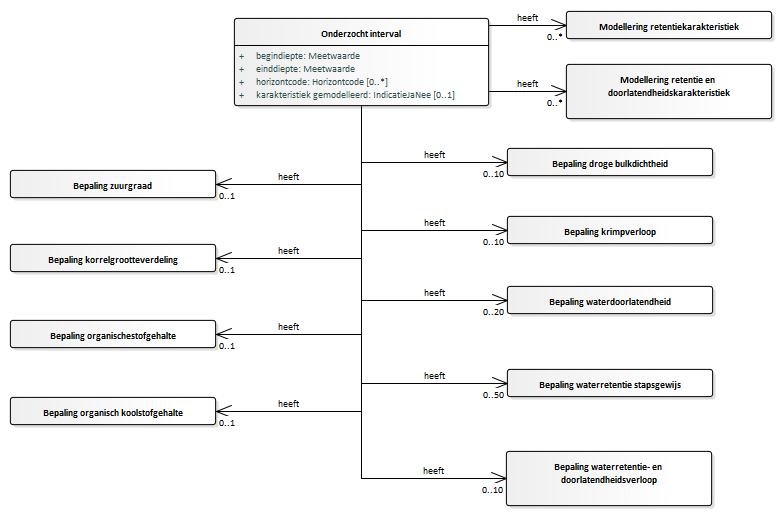
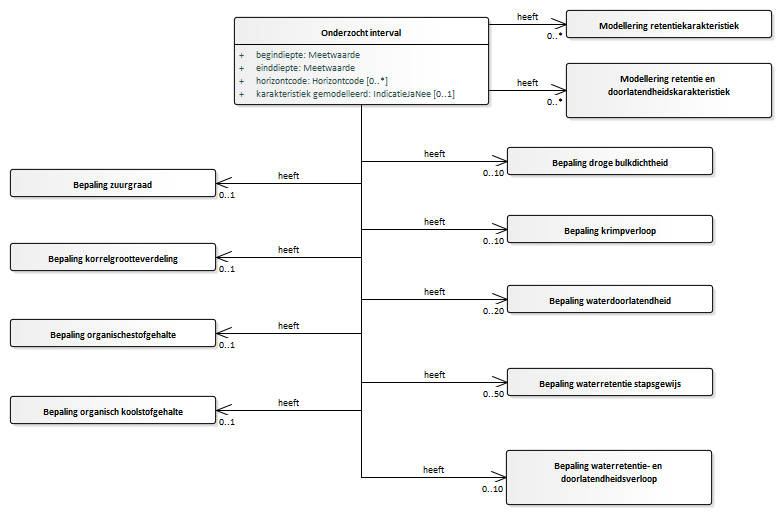
Conceptualmodel-BodemkundigwandonderzoekSFR-1.922versie2maart2020-3-20200302-20200305-161754

diff --git a/data/SFR-cat.msword.html b/data/SFR-cat.msword.html
@@ -13,7 +13,7 @@
    <body>
       <p>Conceptual model/Bodemkundig wandonderzoek (SFR)/20200302</p>
       <p>Imvertor: 1.59.2</p>
-      <p>Model release: Conceptualmodel-BodemkundigwandonderzoekSFR-1.922versie2maart2020-3-20200302-20200305-152339</p>
+      <p>Model release: Conceptualmodel-BodemkundigwandonderzoekSFR-1.922versie2maart2020-3-20200302-20200305-161754</p>
       <hr>
       <section>
          <h1>Artikel 1 Definitie van registratieobject, entiteiten en attributen</h1>
@@ -11542,18 +11542,18 @@
                </section><a class="anchor" id="graph_EAID_A420FBE3_89CE_466c_875A_7F10AD21E90D"></a><a class="anchor" id="global_class_DomeinmodelBROSFR_Onderzochtinterval"></a><section id="global_class_DomeinmodelBROSFR_Onderzochtinterval">
                   <h3>   Onderzocht interval</h3>
                   <div class="imageinfo "><img src="Images/EAID_E276822A_96FA_417c_93DC_9AB3E8599891.png" usemap="#imagemap-EAID_E276822A_96FA_417c_93DC_9AB3E8599891" alt="Diagram "><map name="imagemap-EAID_E276822A_96FA_417c_93DC_9AB3E8599891">
-                        <area shape="rect" alt="Bepaling organisch koolstofgehalte" coords="10,397,216,425" href="#graph_EAID_34645118_BDCB_4863_8A47_BF5AE086C2D3">
-                        <area shape="rect" alt="Modellering retentie en doorlatendheidskarakteristiek" coords="566,64,772,119" href="#graph_EAID_ED8DE5D2_7585_496c_8B3C_F887234EE5BA">
-                        <area shape="rect" alt="Modellering retentiekarakteristiek" coords="566,11,772,39" href="#graph_EAID_DAAF285C_6B5F_4ccc_9633_42F19B112D3B">
-                        <area shape="rect" alt="Bepaling waterretentie- en doorlatendheidsverloop" coords="506,451,712,506" href="#graph_EAID_49AD3898_158D_47c7_B1AF_C839D2CB7B68">
-                        <area shape="rect" alt="Bepaling waterretentie stapsgewijs" coords="507,369,713,397" href="#graph_EAID_BAE772BD_B71F_4124_98FC_F7EF5E68BCBF">
-                        <area shape="rect" alt="Bepaling waterdoorlatendheid" coords="507,286,713,314" href="#graph_EAID_BCDCEB7C_2766_41e9_9958_35F5860BE49A">
-                        <area shape="rect" alt="Bepaling krimpverloop" coords="507,216,713,244" href="#graph_EAID_FE20ED5D_F749_4cbf_A3F0_622FD6CE25DE">
-                        <area shape="rect" alt="Bepaling droge bulkdichtheid" coords="507,148,713,176" href="#graph_EAID_A1E3A70D_62A1_406f_8D49_F395104462BB">
-                        <area shape="rect" alt="Bepaling organischestofgehalte" coords="10,320,216,348" href="#graph_EAID_3C291EC5_84C5_4d25_8E28_F9D97115F1F7">
-                        <area shape="rect" alt="Bepaling korrelgrootteverdeling" coords="10,244,216,272" href="#graph_EAID_8A3656CD_0F50_48f6_9CF0_0890F48CA39A">
-                        <area shape="rect" alt="Bepaling zuurgraad" coords="10,170,216,198" href="#graph_EAID_05CC081B_EF1F_4a65_96D4_4D0492C3A9A4">
-                        <area shape="rect" alt="Onderzocht interval" coords="234,18,489,106" href="#graph_EAID_A420FBE3_89CE_466c_875A_7F10AD21E90D"></map><p><b></b></p>
+                        <area shape="rect" alt="Bepaling organisch koolstofgehalte" coords="10,396,216,424" href="#graph_EAID_34645118_BDCB_4863_8A47_BF5AE086C2D3">
+                        <area shape="rect" alt="Modellering retentie en doorlatendheidskarakteristiek" coords="566,63,772,118" href="#graph_EAID_ED8DE5D2_7585_496c_8B3C_F887234EE5BA">
+                        <area shape="rect" alt="Modellering retentiekarakteristiek" coords="566,10,772,38" href="#graph_EAID_DAAF285C_6B5F_4ccc_9633_42F19B112D3B">
+                        <area shape="rect" alt="Bepaling waterretentie- en doorlatendheidsverloop" coords="506,450,712,505" href="#graph_EAID_49AD3898_158D_47c7_B1AF_C839D2CB7B68">
+                        <area shape="rect" alt="Bepaling waterretentie stapsgewijs" coords="507,368,713,396" href="#graph_EAID_BAE772BD_B71F_4124_98FC_F7EF5E68BCBF">
+                        <area shape="rect" alt="Bepaling waterdoorlatendheid" coords="507,285,713,313" href="#graph_EAID_BCDCEB7C_2766_41e9_9958_35F5860BE49A">
+                        <area shape="rect" alt="Bepaling krimpverloop" coords="507,215,713,243" href="#graph_EAID_FE20ED5D_F749_4cbf_A3F0_622FD6CE25DE">
+                        <area shape="rect" alt="Bepaling droge bulkdichtheid" coords="507,147,713,175" href="#graph_EAID_A1E3A70D_62A1_406f_8D49_F395104462BB">
+                        <area shape="rect" alt="Bepaling organischestofgehalte" coords="10,319,216,347" href="#graph_EAID_3C291EC5_84C5_4d25_8E28_F9D97115F1F7">
+                        <area shape="rect" alt="Bepaling korrelgrootteverdeling" coords="10,243,216,271" href="#graph_EAID_8A3656CD_0F50_48f6_9CF0_0890F48CA39A">
+                        <area shape="rect" alt="Bepaling zuurgraad" coords="10,169,216,197" href="#graph_EAID_05CC081B_EF1F_4a65_96D4_4D0492C3A9A4">
+                        <area shape="rect" alt="Onderzocht interval" coords="234,17,489,105" href="#graph_EAID_A420FBE3_89CE_466c_875A_7F10AD21E90D"></map><p><b></b></p>
                   </div>
                   <table style="width: 100%;">
                      <colgroup style="width: 30%;"></colgroup>
